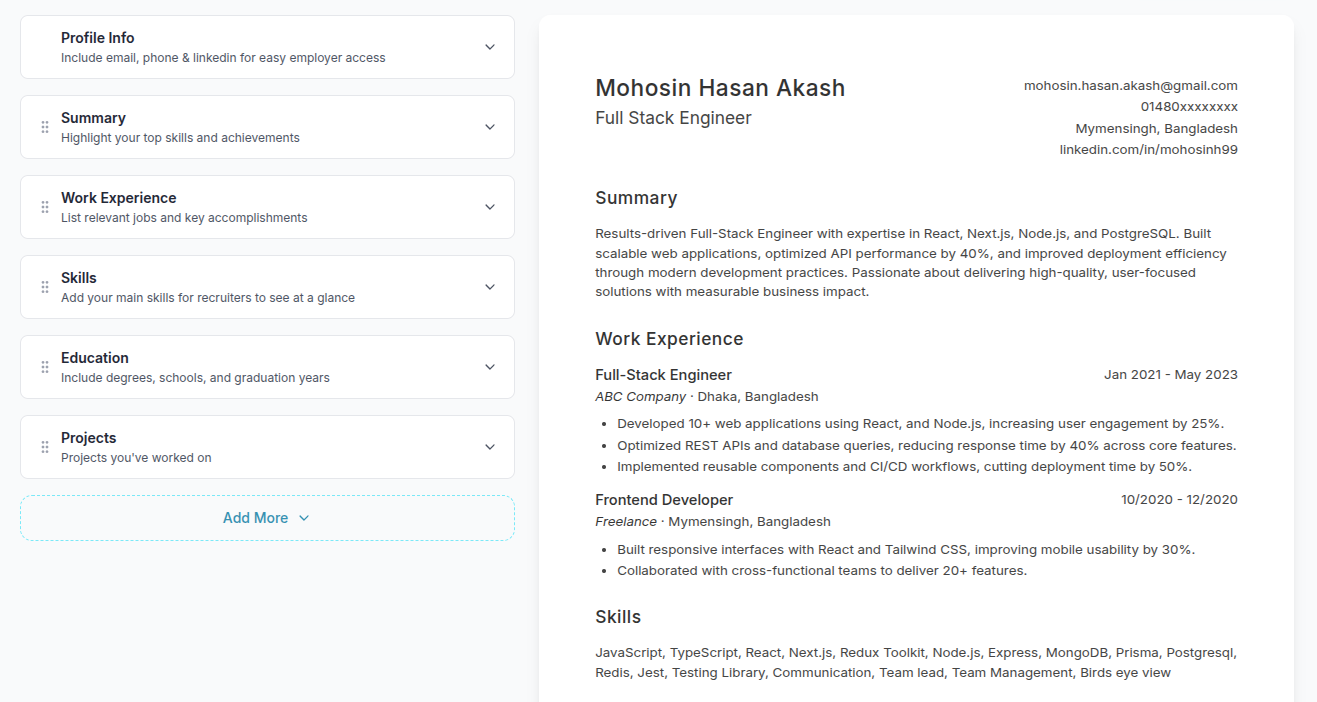
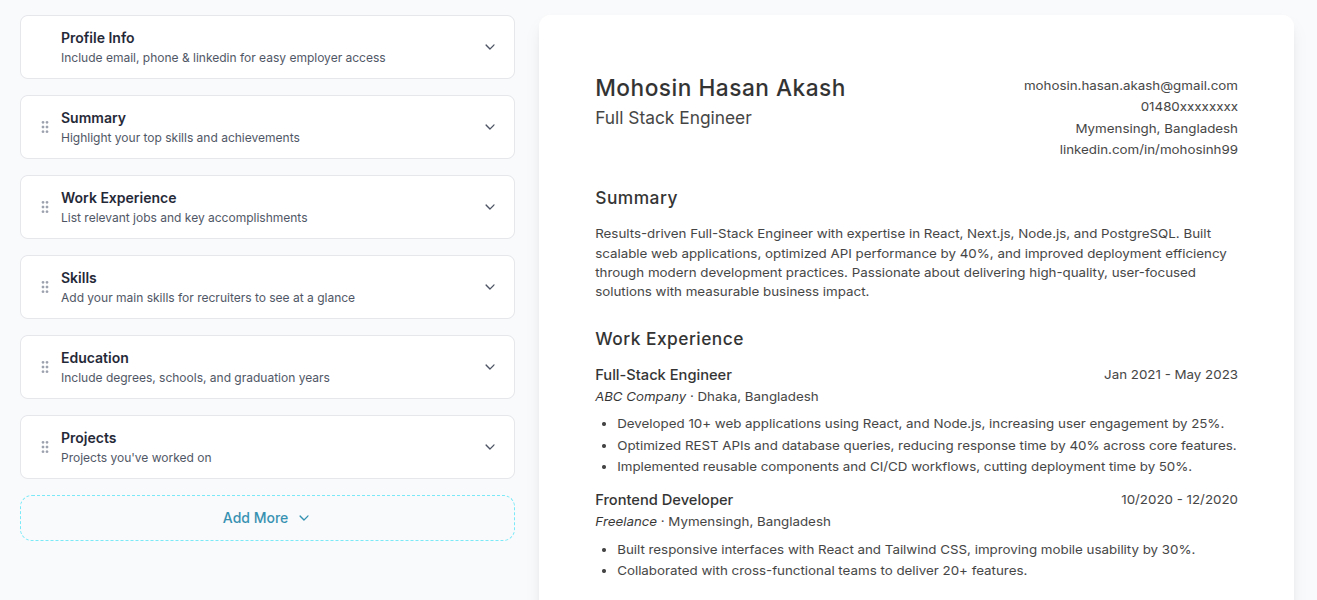
Fix style for login and report page

diff --git a/frontend/src/pages/MyReports.tsx b/frontend/src/pages/MyReports.tsx
@@ -75,7 +75,7 @@ const MyReports: React.FC = () => {
               <LoadingSpinner size="md" text="Loading reports..." />
             </div>
           ) : tickets.length === 0 ? (
-            <div className="bg-white rounded-xl border border-gray-200 p-10 text-center dark:bg-gray-800 dark:border-gray-700">
+            <div className="bg-white rounded-xl border border-gray-200 p-10 text-center dark:bg-secondary dark:border-accent">
               <MessageSquare className="w-10 h-10 text-gray-300 mx-auto mb-3" />
               <p className="text-gray-600 mb-1 dark:text-gray-400">
                 You haven't submitted any reports yet.
@@ -89,7 +89,7 @@ const MyReports: React.FC = () => {
               {tickets.map((t) => (
                 <div
                   key={t.id}
-                  className="bg-white rounded-xl border border-gray-200 p-4 md:p-5 dark:bg-gray-800 dark:border-gray-700"
+                  className="bg-white rounded-xl border border-gray-200 p-4 md:p-5 dark:bg-secondary dark:border-accent"
                 >
                   <div className="flex items-start justify-between gap-3">
                     <div className="min-w-0">

diff --git a/frontend/src/store/slices/themeSlice.ts b/frontend/src/store/slices/themeSlice.ts
@@ -10,9 +10,6 @@ const getInitialTheme = (): ThemeMode => {
   if (typeof window === 'undefined') return 'light';
   const stored = localStorage.getItem('theme');
   if (stored === 'light' || stored === 'dark') return stored;
-  if (window.matchMedia && window.matchMedia('(prefers-color-scheme: dark)').matches) {
-    return 'dark';
-  }
   return 'light';
 };
 
